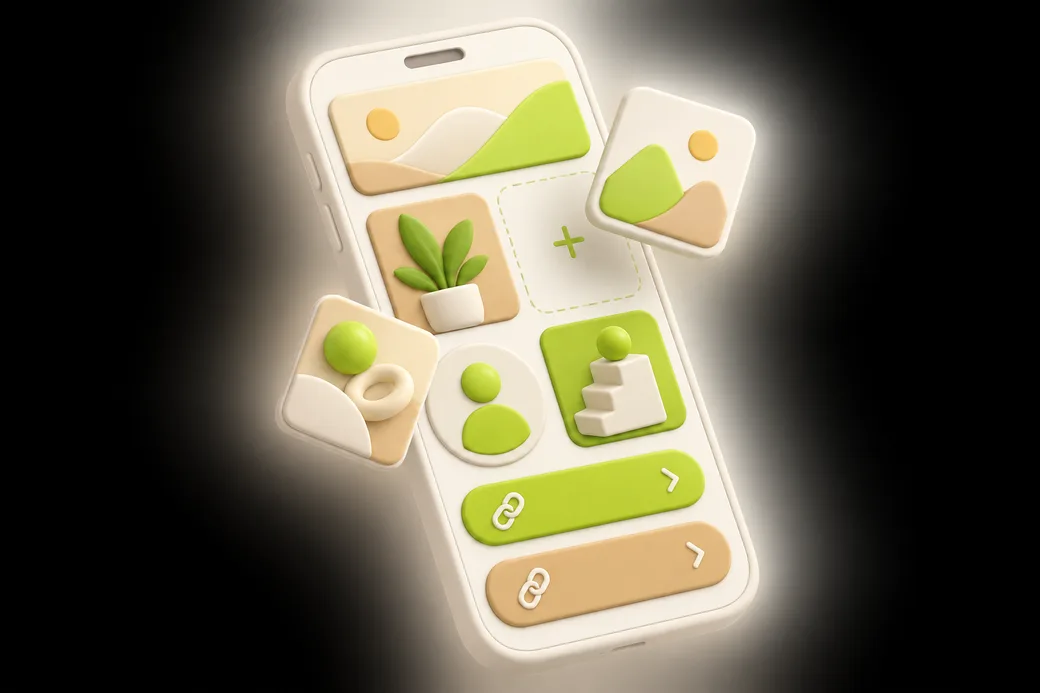
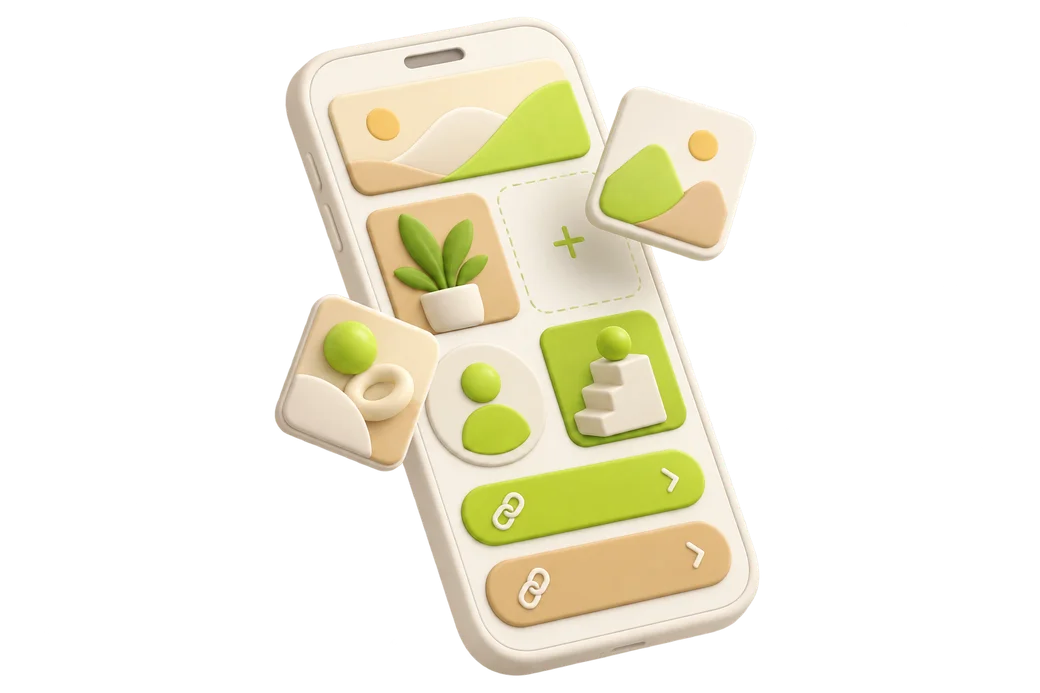
fix(landing): anchor marquee to content container; restore phone alpha
- marquee strip now positions against the centered max-w-7xl container (was viewport-relative, drifted to the edge on wide screens)
- phone-3d.webp reconverted preserving alpha — floats on blue with no baked black background/glow

diff --git a/apps/web/app/components/landing/hero.tsx b/apps/web/app/components/landing/hero.tsx
@@ -10,11 +10,14 @@ import type { LandingContent } from "~/content/landing";
 export function Hero({ hero }: { hero: LandingContent["hero"] }) {
   return (
     <section className="relative bg-kirec">
-      <div className="absolute inset-x-0 -top-24 bottom-0">
-        <HeroMarquee
-          items={hero.marquee.items}
-          durationSeconds={hero.marquee.durationSeconds}
-        />
+      {/* Şerit, viewport'a değil ortalanmış içerik konteynerine hizalanır */}
+      <div className="pointer-events-none absolute inset-x-0 -top-24 bottom-0">
+        <div className="relative mx-auto h-full max-w-7xl">
+          <HeroMarquee
+            items={hero.marquee.items}
+            durationSeconds={hero.marquee.durationSeconds}
+          />
+        </div>
       </div>
       <div className="relative z-10 mx-auto max-w-7xl px-4 pt-14 pb-16 sm:px-8 lg:pt-20 lg:pb-24">
         <div className="flex flex-col justify-center lg:max-w-[54%]">

diff --git a/apps/web/app/components/landing/hero-marquee.tsx b/apps/web/app/components/landing/hero-marquee.tsx
@@ -17,7 +17,7 @@ export function HeroMarquee({ items, durationSeconds }: HeroMarqueeProps) {
   return (
     <div
       aria-hidden
-      className="pointer-events-none absolute inset-y-0 right-6 z-0 hidden w-[420px] overflow-hidden [mask-image:linear-gradient(to_bottom,black_82%,transparent)] lg:block xl:right-12 xl:w-[470px]"
+      className="pointer-events-none absolute inset-y-0 right-4 z-0 hidden w-[420px] overflow-hidden [mask-image:linear-gradient(to_bottom,black_82%,transparent)] sm:right-8 lg:block xl:w-[470px]"
     >
       <div
         className="flex flex-col gap-[18px] motion-safe:animate-marquee"

diff --git a/apps/web/app/components/landing/phone-illustration.tsx b/apps/web/app/components/landing/phone-illustration.tsx
@@ -7,7 +7,7 @@ export function PhoneIllustration() {
       src={phone3d}
       alt=""
       loading="lazy"
-      className="mx-auto w-full max-w-[520px] rounded-2xl"
+      className="mx-auto w-full max-w-[520px]"
     />
   );
 }
